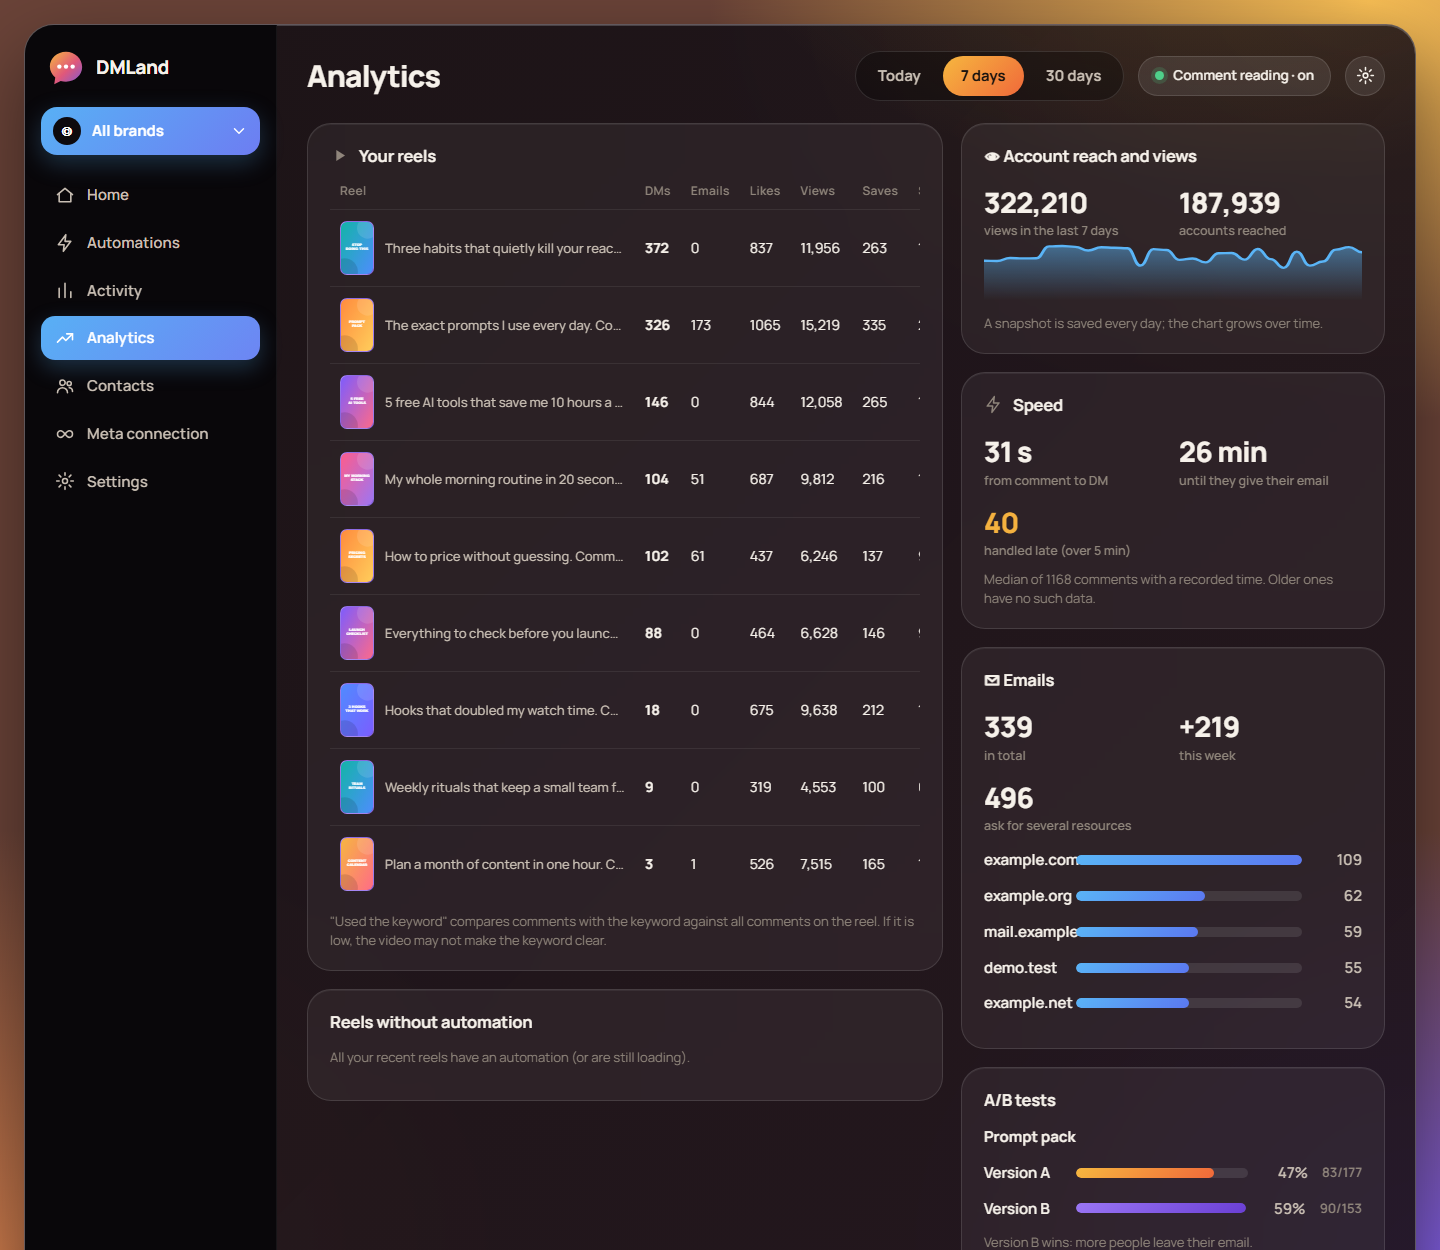
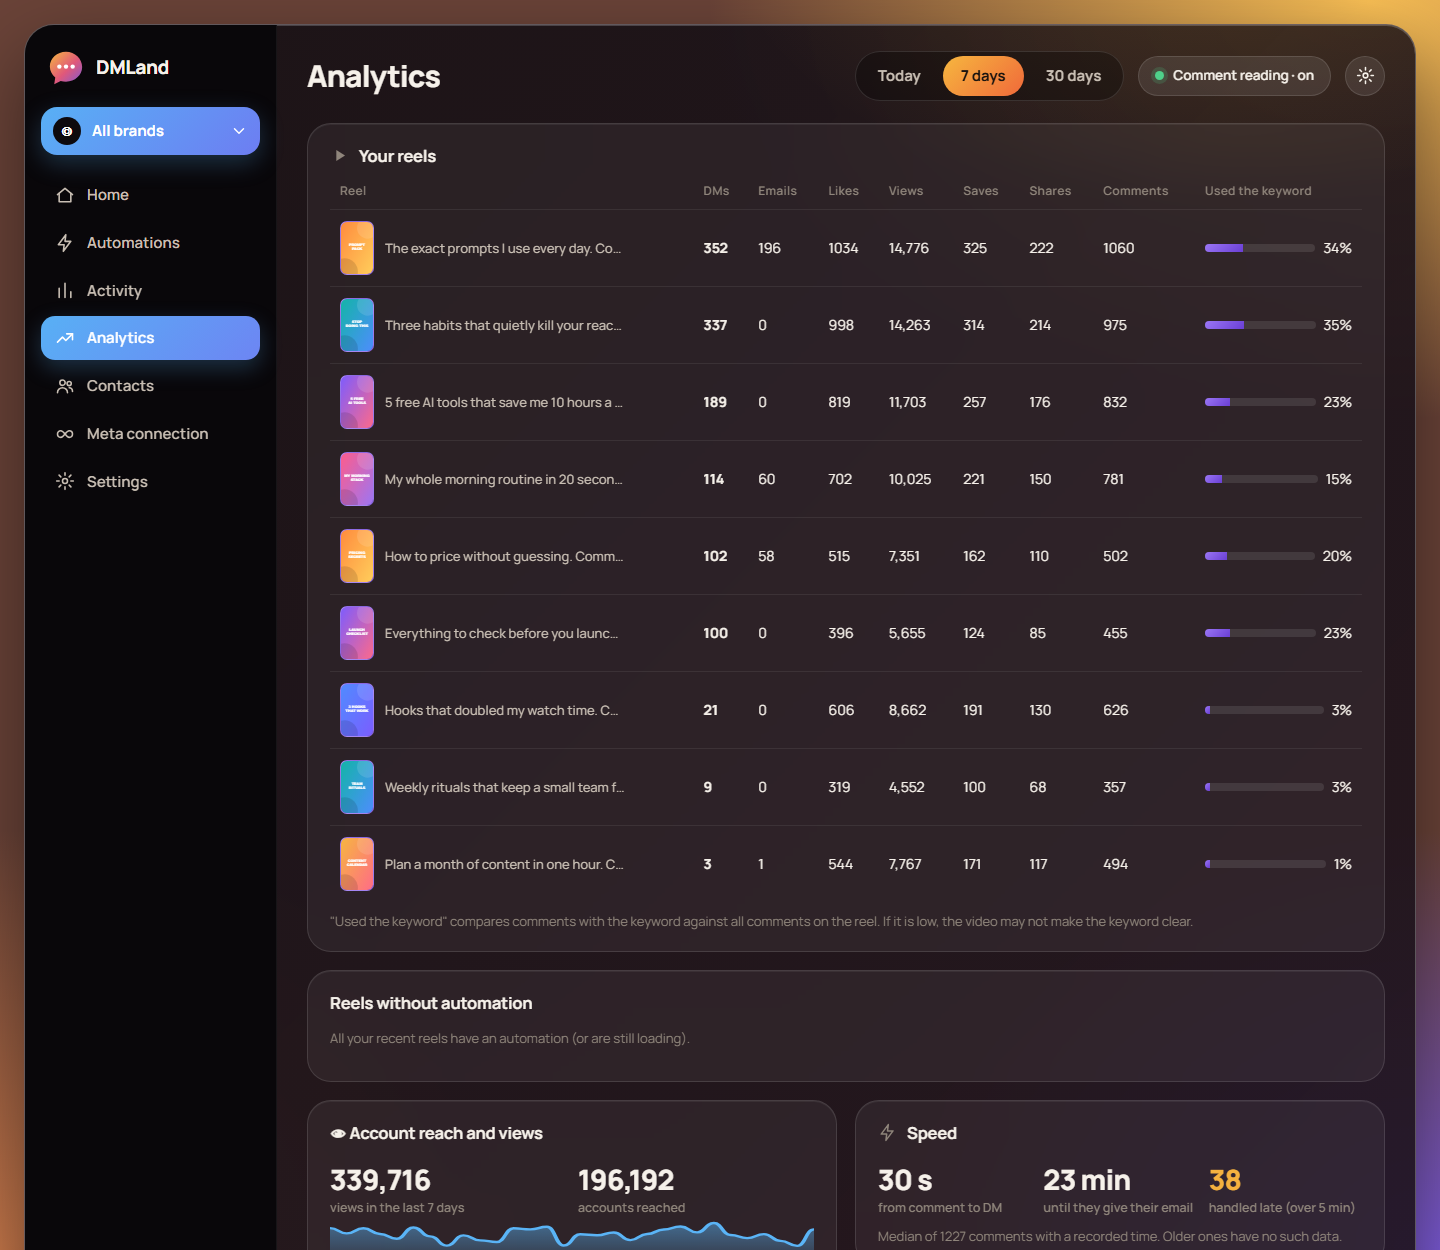
fix: balance analytics cards so columns leave no dead space (#3)

diff --git a/public/index.html b/public/index.html
@@ -189,6 +189,10 @@
   @media (prefers-reduced-motion: reduce) { .rise, .toast div, .modal .box { animation: none; } }
 
   .grid > *, .editor > * { min-width: 0; } body { overflow-x: hidden; }
+  .anstack > .card, .masonry > .card { min-width: 0; }
+  .masonry { display: grid; grid-template-columns: repeat(var(--n, 2), minmax(0, 1fr)); gap: 18px; margin-top: 18px; align-items: start; }
+  .mcol { display: flex; flex-direction: column; gap: 18px; min-width: 0; }
+  .mcol > .card { margin: 0; }
   @media (max-width: 1100px) { .g4 { grid-template-columns: repeat(2, minmax(0, 1fr)); } .g-main, .g-2, .editor { grid-template-columns: minmax(0, 1fr); } .preview { position: static; } }
   @media (max-width: 900px) {
     .kpi { padding: 14px; } .kpi .num { font-size: 30px; } .kpi .lb { font-size: 13px; min-height: 0; } .kpi .ic { width: 32px; height: 32px; margin-right: 8px; } .acards { grid-template-columns: minmax(0, 1fr); } .top { gap: 10px; } .pill { font-size: 12.5px; padding: 7px 12px; }
@@ -662,15 +666,13 @@ async function viewAnalisis() {
   }).join('') : `<p class="mute">${T('Turn on "Test two versions" in an automation that asks for the email to compare messages.')}</p>`;
 
   $('#main').innerHTML = header('Analytics', rangePills()) + `
-  <div class="grid g-2">
-   <div>
+  <div class="anstack">
     <div class="card rise" style="--i:1"><h2>${ic('play')}${T('Your reels')}</h2>
       ${a.reels.length ? `<div style="overflow-x:auto"><table class="tbl rt"><thead><tr><th>Reel</th><th>DMs</th><th>Emails</th><th>Likes</th><th>${T('Views')}</th><th>${T('Saves')}</th><th>${T('Shares')}</th><th>${T('Comments')}</th><th>${T('Used the keyword')}</th></tr></thead><tbody>${reelRows}</tbody></table></div>
         <p class="mute" style="margin:10px 0 0">${T('"Used the keyword" compares comments with the keyword against all comments on the reel. If it is low, the video may not make the keyword clear.')}</p>` : `<p class="mute">${T('No reels with activity in this period yet.')}</p>`}</div>
     <div class="card rise mt" style="--i:3"><h2>${T('Reels without automation')}</h2>
       ${free.length ? `<div class="freegrid">${free.slice(0, 8).map(([cid, m]) => `<button class="fr" data-fc="${cid}" data-fm="${esc(m.id)}" title="${esc((m.caption || '').slice(0, 80))}">${thumbHtml(cid, m.id, 'rthumb big')}<span>${T('Create')}</span></button>`).join('')}</div><p class="mute" style="margin:10px 0 0">${T('Tap one to create an automation for it.')}</p>` : `<p class="mute">${T('All your recent reels have an automation (or are still loading).')}</p>`}</div>
-   </div>
-   <div>
+   <div class="masonry">
     <div class="card rise" style="--i:1"><h2>👁 ${T('Account reach and views')}</h2>${a.insights.has ? `<div class="kv"><div><b>${num(a.insights.views)}</b><span>${T`views in ${periodo()}`}</span></div><div><b>${num(a.insights.reach)}</b><span>${T('accounts reached')}</span></div></div>${a.insights.series.length > 1 ? sparkline(a.insights.series.map((x) => x.views ?? 0), '#5ab4f6', 300, 60) : ''}<p class="mute" style="margin:8px 0 0">${T('A snapshot is saved every day; the chart grows over time.')}</p>` : `<p class="mute">${T('No data yet: read every 30 minutes.')}</p>`}</div>
     <div class="card rise mt" style="--i:2"><h2>${ic('bolt')}${T('Speed')}</h2>
       <div class="kv"><div><b>${fmtDur(sp.medianLagSec)}</b><span>${T('from comment to DM')}</span></div><div><b>${fmtDur(sp.medianToEmailSec)}</b><span>${T('until they give their email')}</span></div><div><b class="${sp.lateCount ? 'warnc' : ''}">${sp.lateCount}</b><span>${T('handled late (over 5 min)')}</span></div></div>
@@ -690,8 +692,27 @@ async function viewAnalisis() {
       ${fo.series.length > 1 ? `<div class="lgrow"><b class="lgnum">${num(fo.latest)}</b><span class="${fo.delta > 0 ? 'up' : fo.delta < 0 ? 'down' : 'mute'}">${fo.delta > 0 ? '+' : ''}${fo.delta} ${T('in 30 days')}</span></div>${sparkline(fo.series.map((x) => x.f), '#5ab4f6', 300, 60)}` : `<p class="mute">${fo.latest != null ? `${num(fo.latest)} ${T('followers. The chart appears once there is more than one day of data.')}` : T('No data yet: a daily snapshot is taken.')}</p>`}</div>
    </div>
   </div>`;
+  masonry($('.masonry'));
   bindRange(viewAnalisis); fillThumbs();
   document.querySelectorAll('.fr').forEach((b) => (b.onclick = () => { S.pendingMedia = { channel: Number(b.dataset.fc), media: b.dataset.fm }; location.hash = '#/automatizaciones'; }));
+}
+
+/* Puts cards in the shortest column so columns stay balanced (no dead space); one column on narrow screens. */
+let masonryOnResize = null;
+function shortest(cols) { let t = cols[0]; for (const c of cols) if (c.offsetHeight < t.offsetHeight) t = c; return t; }
+function masonry(box) {
+  if (!box) return;
+  const cards = [...box.children], wide = () => innerWidth > 1000;
+  const place = () => {
+    const cols = Array.from({ length: wide() ? 2 : 1 }, () => Object.assign(document.createElement('div'), { className: 'mcol' }));
+    box.style.setProperty('--n', cols.length); box.replaceChildren(...cols);
+    for (const c of cards) shortest(cols).appendChild(c);
+  };
+  place();
+  let was = wide();
+  removeEventListener('resize', masonryOnResize);
+  masonryOnResize = () => { if (!box.isConnected) return removeEventListener('resize', masonryOnResize); if (wide() !== was) { was = wide(); place(); } };
+  addEventListener('resize', masonryOnResize);
 }
 
 /* ---------- Automations ---------- */
